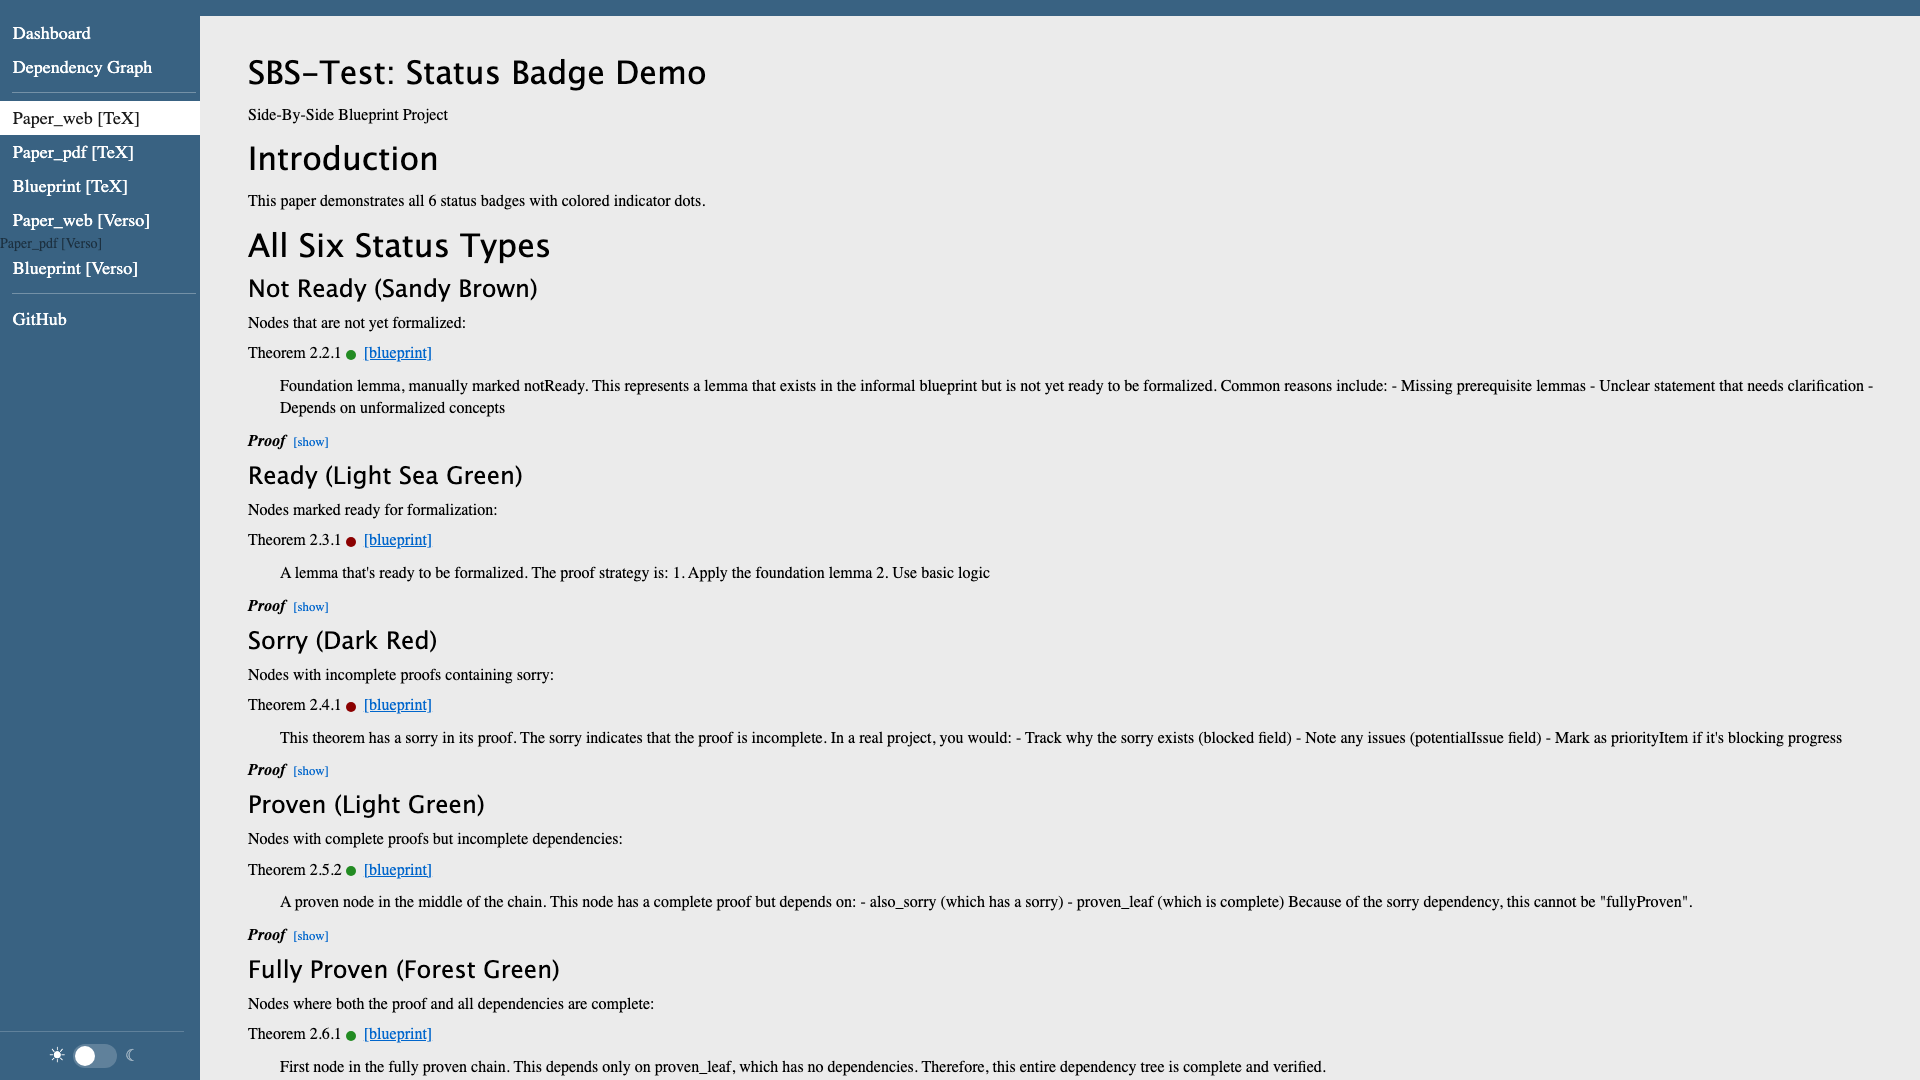
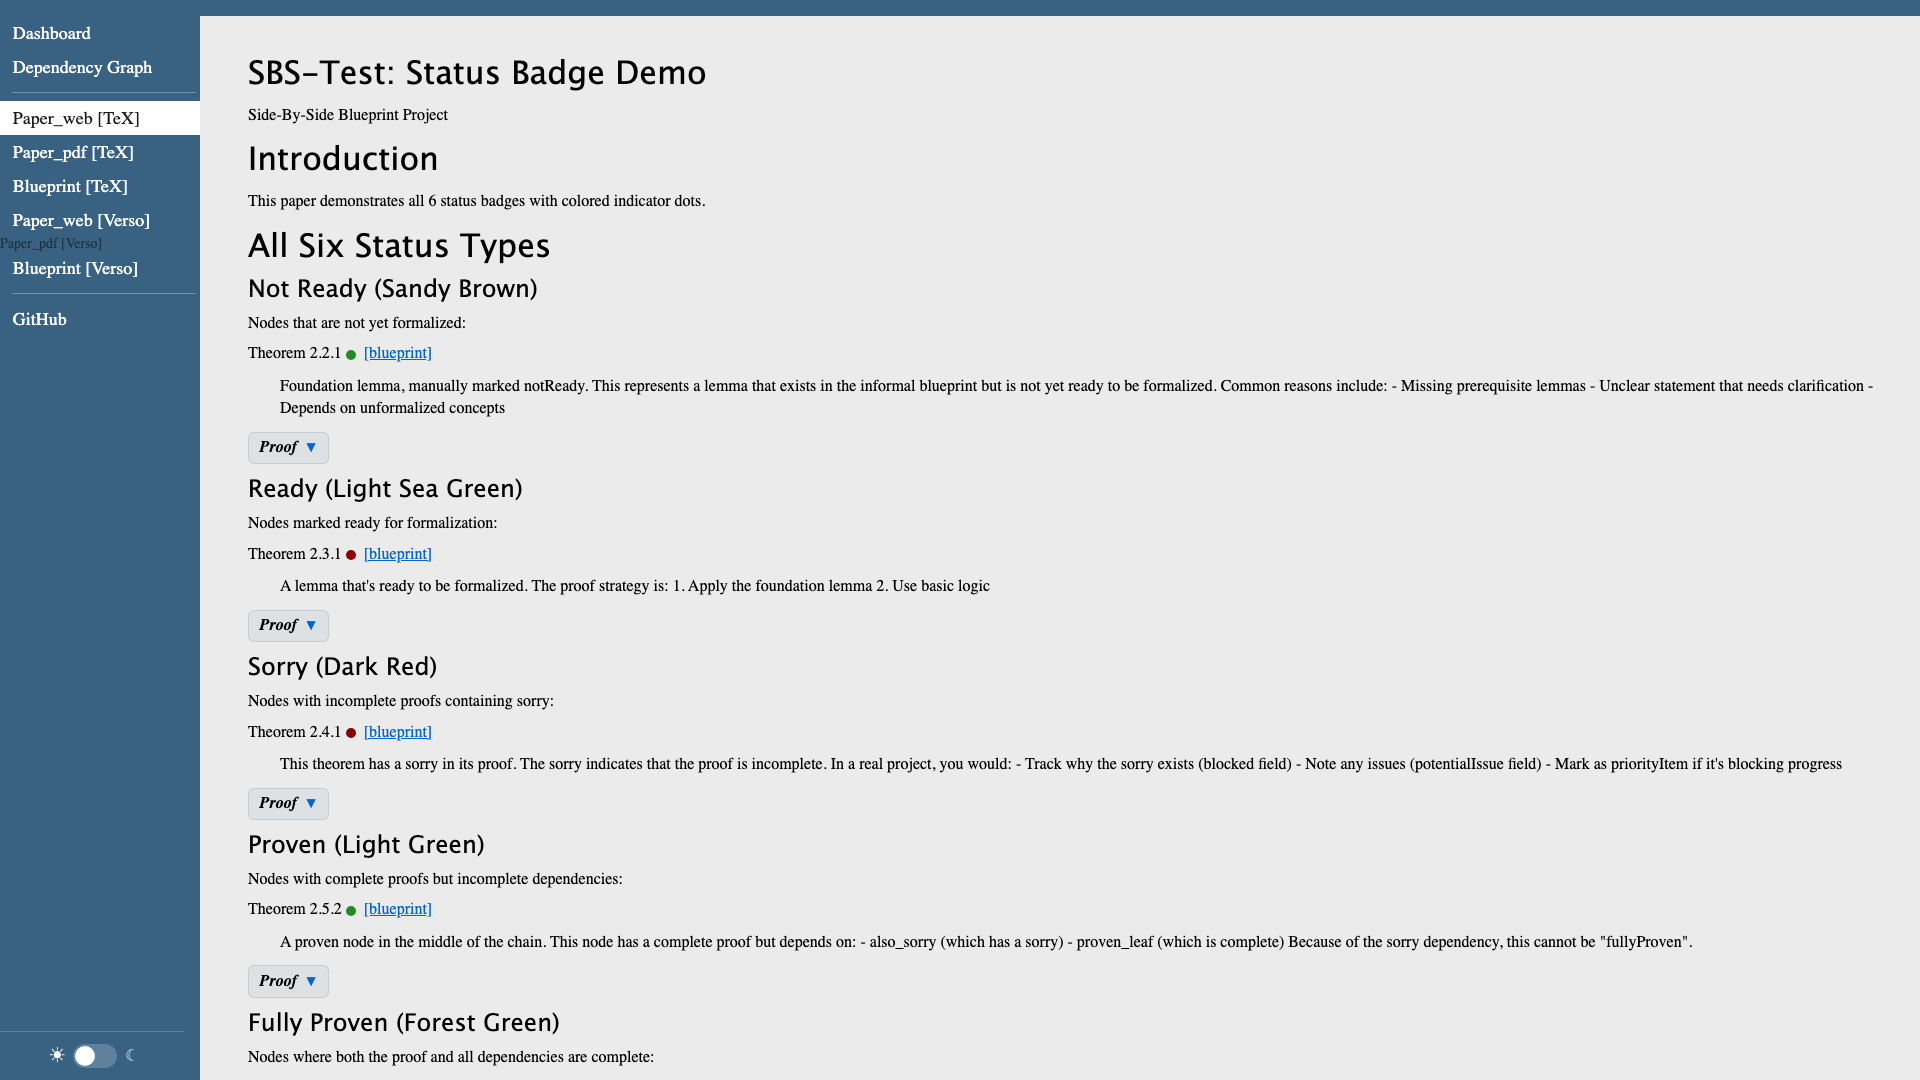
docs: update-and-archive refresh
Quality Score: 87.21 → 91.77 (+4.56)

Changes:
- 8-dimensional test suite (T1-T8) with 230 tests
- Fixed 20 CSS color violations
- Removed 3 dead ledger fields
- Improved proof toggle styling
- Updated all 9 repository READMEs
- Synchronized core documentation

Changed region(s): [[0.125, 0.55, 0.9688, 1.0], [0.125, 0.3972, 0.5312, 0.55]]

diff --git a/CLAUDE.md b/CLAUDE.md
@@ -504,6 +504,64 @@ Spawn an agent for:
 
 ---
 
+## Quality Validation Framework
+
+### 8-Dimensional Test Suite (T1-T8)
+
+The toolchain includes automated quality scoring tracking 8 dimensions:
+
+**Deterministic Tests (50% weight):**
+
+| Test | Name | Weight | Description |
+|------|------|--------|-------------|
+| T1 | CLI Execution | 10% | All sbs CLI commands execute without error |
+| T2 | Ledger Population | 10% | Unified ledger fields are populated correctly |
+| T5 | Status Color Match | 15% | 6 status colors match between Lean and CSS |
+| T6 | CSS Variable Coverage | 15% | Hardcoded colors use CSS variables |
+
+**Heuristic Tests (50% weight):**
+
+| Test | Name | Weight | Description |
+|------|------|--------|-------------|
+| T3 | Dashboard Clarity | 10% | Dashboard answers 3 key questions at a glance |
+| T4 | Toggle Discoverability | 10% | Proof toggles and theme switches are findable |
+| T7 | Jarring-Free Check | 15% | No visually jarring elements (AI vision) |
+| T8 | Professional Score | 15% | Overall polish and alignment (AI vision) |
+
+**Score Calculation:** `quality_score = Σ(test_score × weight)`
+
+**Score Tracking:** 87.21 (baseline) -> 89.69 -> 91.77 (current)
+
+### Design Validators
+
+Located in `scripts/sbs/validators/design/`:
+
+| Validator | Purpose |
+|-----------|---------|
+| `color_match.py` | T5: Verifies status colors match between Lean and CSS |
+| `variable_coverage.py` | T6: Measures CSS variable coverage vs hardcoded colors |
+| `dashboard_clarity.py` | T3: AI-based dashboard clarity assessment |
+| `toggle_discoverability.py` | T4: AI-based toggle findability scoring |
+| `jarring_check.py` | T7: AI detection of jarring design elements |
+| `professional_score.py` | T8: AI-based professional polish assessment |
+| `css_parser.py` | Shared CSS parsing utilities |
+
+### Running Quality Tests
+
+```bash
+cd /Users/eric/GitHub/Side-By-Side-Blueprint/scripts
+
+# Run all deterministic tests
+/opt/homebrew/bin/pytest sbs/tests/ -v
+
+# Run design validator suite
+python -m sbs design-check --project SBSTest
+```
+
+See `scripts/sbs/tests/SCORING_RUBRIC.md` for detailed scoring methodology
+
+---
+
 ## Custom Skills
 
 ### `/execute`

diff --git a/GOALS.md b/GOALS.md
@@ -192,6 +192,19 @@ Side-by-Side-Blueprint/
 - Dashboard is single-column layout (intentional)
 - Build time dominated by SubVerso highlighting (93-99%)
 
+## Quality Validation
+
+The toolchain now includes an 8-dimensional quality scoring system for design validation:
+
+| Category | Tests | Description |
+|----------|-------|-------------|
+| Deterministic (50%) | T1, T2, T5, T6 | CLI execution, ledger health, color matching, CSS coverage |
+| Heuristic (50%) | T3, T4, T7, T8 | Dashboard clarity, toggle discoverability, jarring-free, professional score |
+
+**Current Score:** 91.77/100 (as of 2026-02-01)
+
+Design validators in `scripts/sbs/validators/design/` automate quality assessment, providing measurable quality targets for UI work.
+
 ## Quality Targets
 
 ### Blueprint (Achieved)

diff --git a/ARCHITECTURE.md b/ARCHITECTURE.md
@@ -276,6 +276,21 @@ git = "https://github.com/e-vergo/verso.git"
 rev = "main"
 ```
 
+## Quality Validation
+
+The toolchain includes an 8-dimensional quality scoring system:
+
+**Deterministic Tests (T1, T2, T5, T6):** CLI execution, ledger population, status color matching, CSS variable coverage
+
+**Heuristic Tests (T3, T4, T7, T8):** Dashboard clarity, toggle discoverability, jarring-free check, professional score
+
+**Current Score:** 91.77/100 (as of 2026-02-01)
+
+Design validators in `scripts/sbs/validators/design/` automate quality checks. Run with:
+```bash
+/opt/homebrew/bin/pytest sbs/tests/ -v
+```
+
 ## Related Documents
 
 - [README.md](README.md) - Project overview and getting started

diff --git a/README.md b/README.md
@@ -33,6 +33,7 @@ Pure Lean toolchain for formalization documentation that displays formal proofs 
 - **Automatic dependency inference** from actual Lean code (replaces manual `\uses{}`)
 - **Hover tooltips** with type signatures via Tippy.js
 - **Dark/light theme toggle** with localStorage persistence
+- **8-dimensional quality scoring** with automated design validation (T1-T8 test suite)
 
 ## Repository Structure
 

diff --git a/scripts/sbs/tests/SCORING_RUBRIC.md b/scripts/sbs/tests/SCORING_RUBRIC.md
@@ -111,6 +111,7 @@ If all improvements implemented:
 |------|-------|---------|
 | 2026-02-01 | 87.21 | Baseline |
 | 2026-02-01 | 89.69 | +2.48: Fixed 20 CSS violations, removed 3 dead ledger fields |
+| 2026-02-01 | 91.77 | +2.08: Excluded syntax colors from T6, improved toggle styling |
 
 ## Running Tests
 
